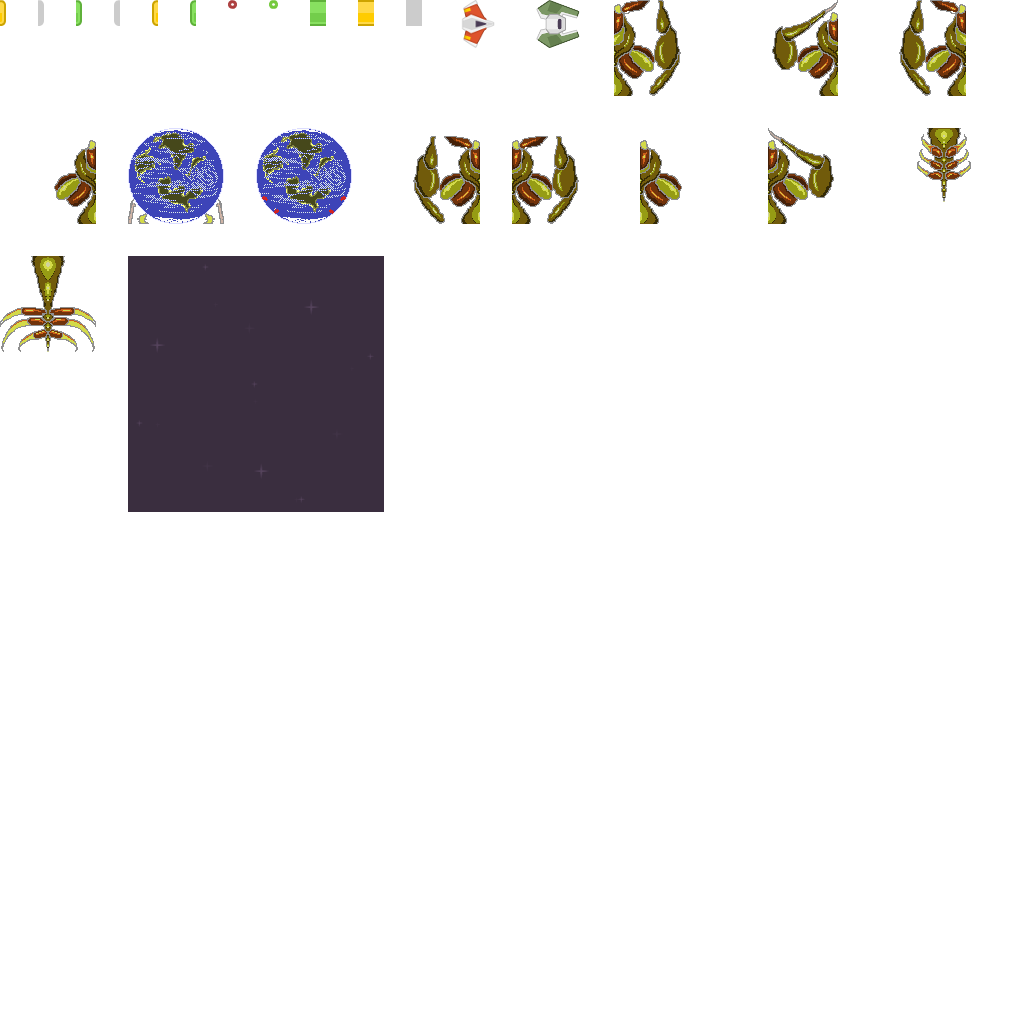
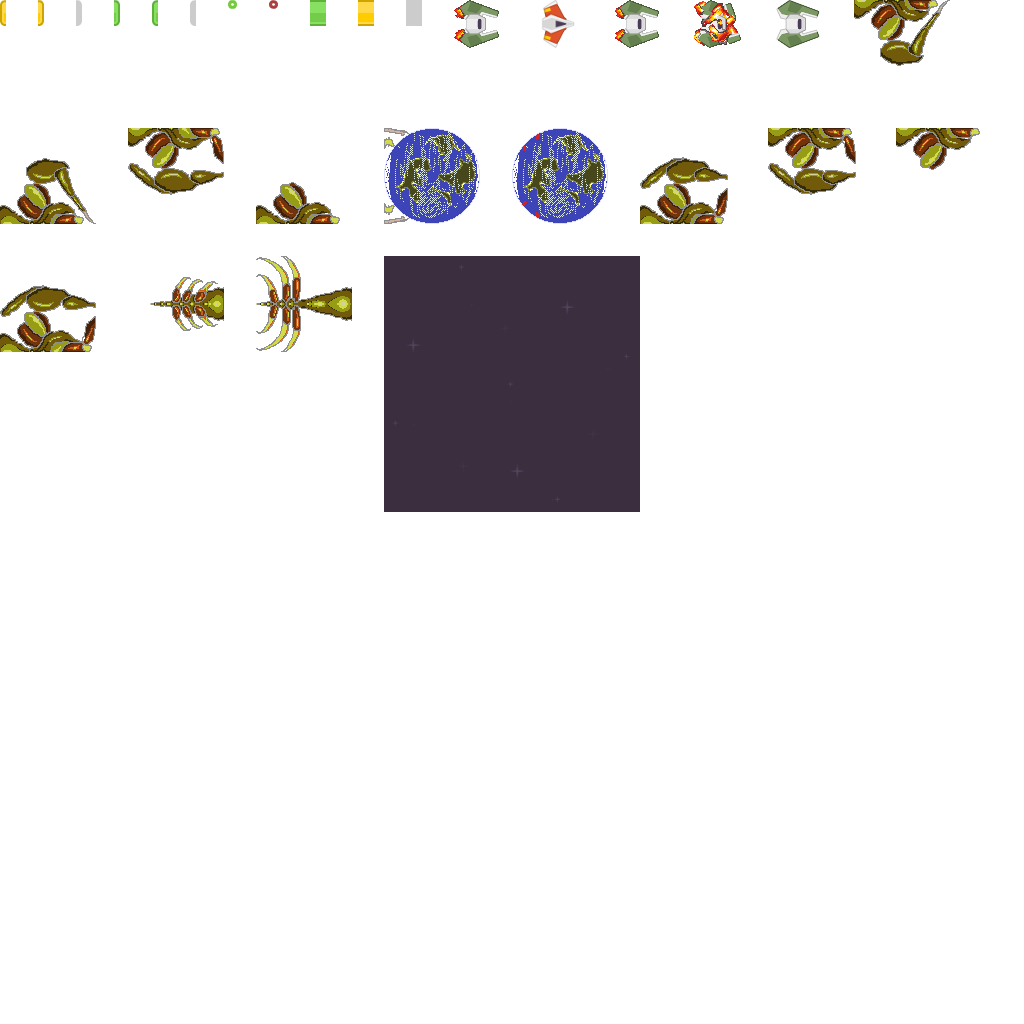
starting boss atlas facing to the right

diff --git a/src/entities/bosses/atlas/segments/left_segment.js b/src/entities/bosses/atlas/segments/left_segment.js
@@ -2,7 +2,7 @@ import BossSegment from '../../../boss/segment';
 
 export default class AtlasLeftSegment extends BossSegment {
     constructor (segments) {
-        super(segments, -96, -48, "game_atlas", "atlasSegLeftThrust");
+        super(segments, 0, -48, "game_atlas", "atlasSegLeftThrust");
 
         this.setOrigin(0,0);
     }

diff --git a/src/entities/bosses/atlas/segments/right_segment.js b/src/entities/bosses/atlas/segments/right_segment.js
@@ -2,7 +2,7 @@ import BossSegment from '../../../boss/segment';
 
 export default class AtlasRightSegment extends BossSegment {
     constructor (segments) {
-        super(segments, 0, -48, "game_atlas", "atlasSegRightThrust");
+        super(segments, 0, 48, "game_atlas", "atlasSegRightThrust");
 
         this.setOrigin(0,0);
     }

diff --git a/src/entities/bosses/atlas/segments/back_segment.js b/src/entities/bosses/atlas/segments/back_segment.js
@@ -2,7 +2,7 @@ import BossSegment from '../../../boss/segment';
 
 export default class AtlasBackSegment extends BossSegment {
     constructor (segments) {
-        super(segments, -48, 48, "game_atlas", "atlasSegRearRest");
+        super(segments, -96, 0, "game_atlas", "atlasSegRearRest");
 
         this.setOrigin(0,0);
     }

diff --git a/src/entities/bosses/atlas/segments/front_segment.js b/src/entities/bosses/atlas/segments/front_segment.js
@@ -2,7 +2,7 @@ import BossSegment from '../../../boss/segment';
 
 export default class AtlasFrontSegment extends BossSegment {
     constructor (segments) {
-        super(segments, -48, -144, "game_atlas", "atlasSegFront");
+        super(segments, 96, 0, "game_atlas", "atlasSegFront");
 
         this.setOrigin(0,0);
     }
